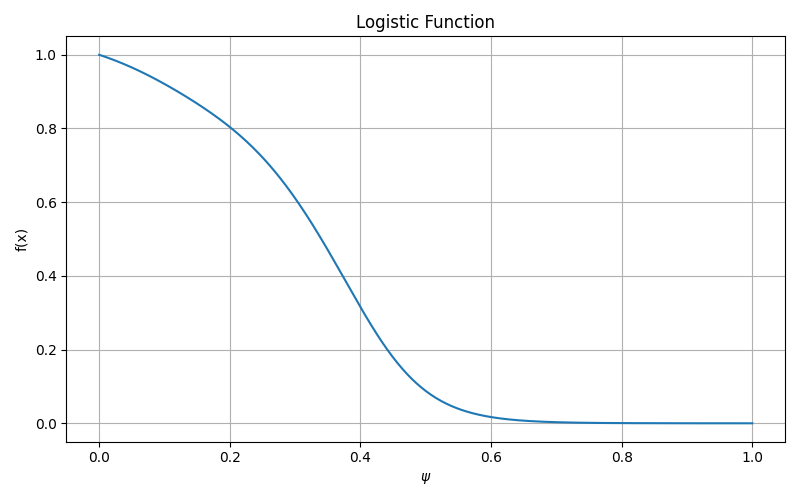
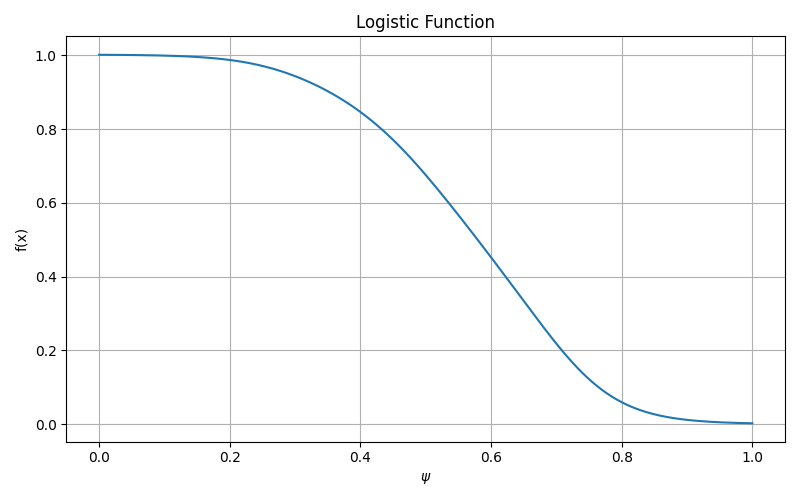
found a better range for psi_shift

diff --git a/Scratch/Profiles/logistic.py b/Scratch/Profiles/logistic.py
@@ -15,7 +15,7 @@ x = np.linspace(0, 1, resol) #normalized psi from 0 to 1
 
 
 
-
+#----------- Logistic Function -----------#
 def logistic(k, psi_shift):
     """
     Calculates the logistic function and its derivative function
@@ -40,8 +40,7 @@ def logistic(k, psi_shift):
 
 
 
-
-
+#----------- Superposition of Logistic Functions -----------#
 def logistic_super(N, weights):
     """
     Generates a 3D array family of logistic functions, where
@@ -50,7 +49,6 @@ def logistic_super(N, weights):
     axis 2 = values of parameter psi_shift,
     then brings in optimization parameter array, weights,
     and generates a superposition of all N^2 vectors 
-
     --------- Parameters ---------
     N: scalar
         number of k and psi_shift values to generate
@@ -60,12 +58,16 @@ def logistic_super(N, weights):
     psi_shift: scalar
         values of psi_shift, horizontal displacement
     --------- Returns ------------
-
+    superpos: array-like
+        (resol,1) array that is a superposition of all logisitic
+        function permutations of the chosen range of k and psi_shift,
+        weighted by the optimization parameter "weights"
     """
     kpsi_fam = np.empty((len(x), N, N), dtype=float)
-
+    #k_val and psi_shift need to be more flexible
+    #psi_shift crashes if you change range values
     for i, k_val in enumerate(range(10, 10 + 2*N, 2)):
-        for j, psi_shift in enumerate(range(-5, -5 + N, 1)):
+        for j, psi_shift in enumerate(range(-2, -2 + N, 1)):
             kpsi_fam[:, i, j] = logistic(k_val, psi_shift)
     
     #reshaping 3D kpsi_fam (resol,N,N) into 2D kpsi_flat (resol, N^2)
@@ -80,20 +82,12 @@ def logistic_super(N, weights):
     
 
 
-
-
-
-
-
-
-
-
-
 #---------- Plotting -----------#
 plt.figure(figsize=(8, 5))
 plt.title('Logistic Function')
 plt.xlabel(r'$\psi$')
 plt.ylabel('f(x)')
+#plot currently uses random weights
 plt.plot(x, logistic_super(5, np.random.rand(5**2)))
 plt.grid()
 plt.tight_layout()
